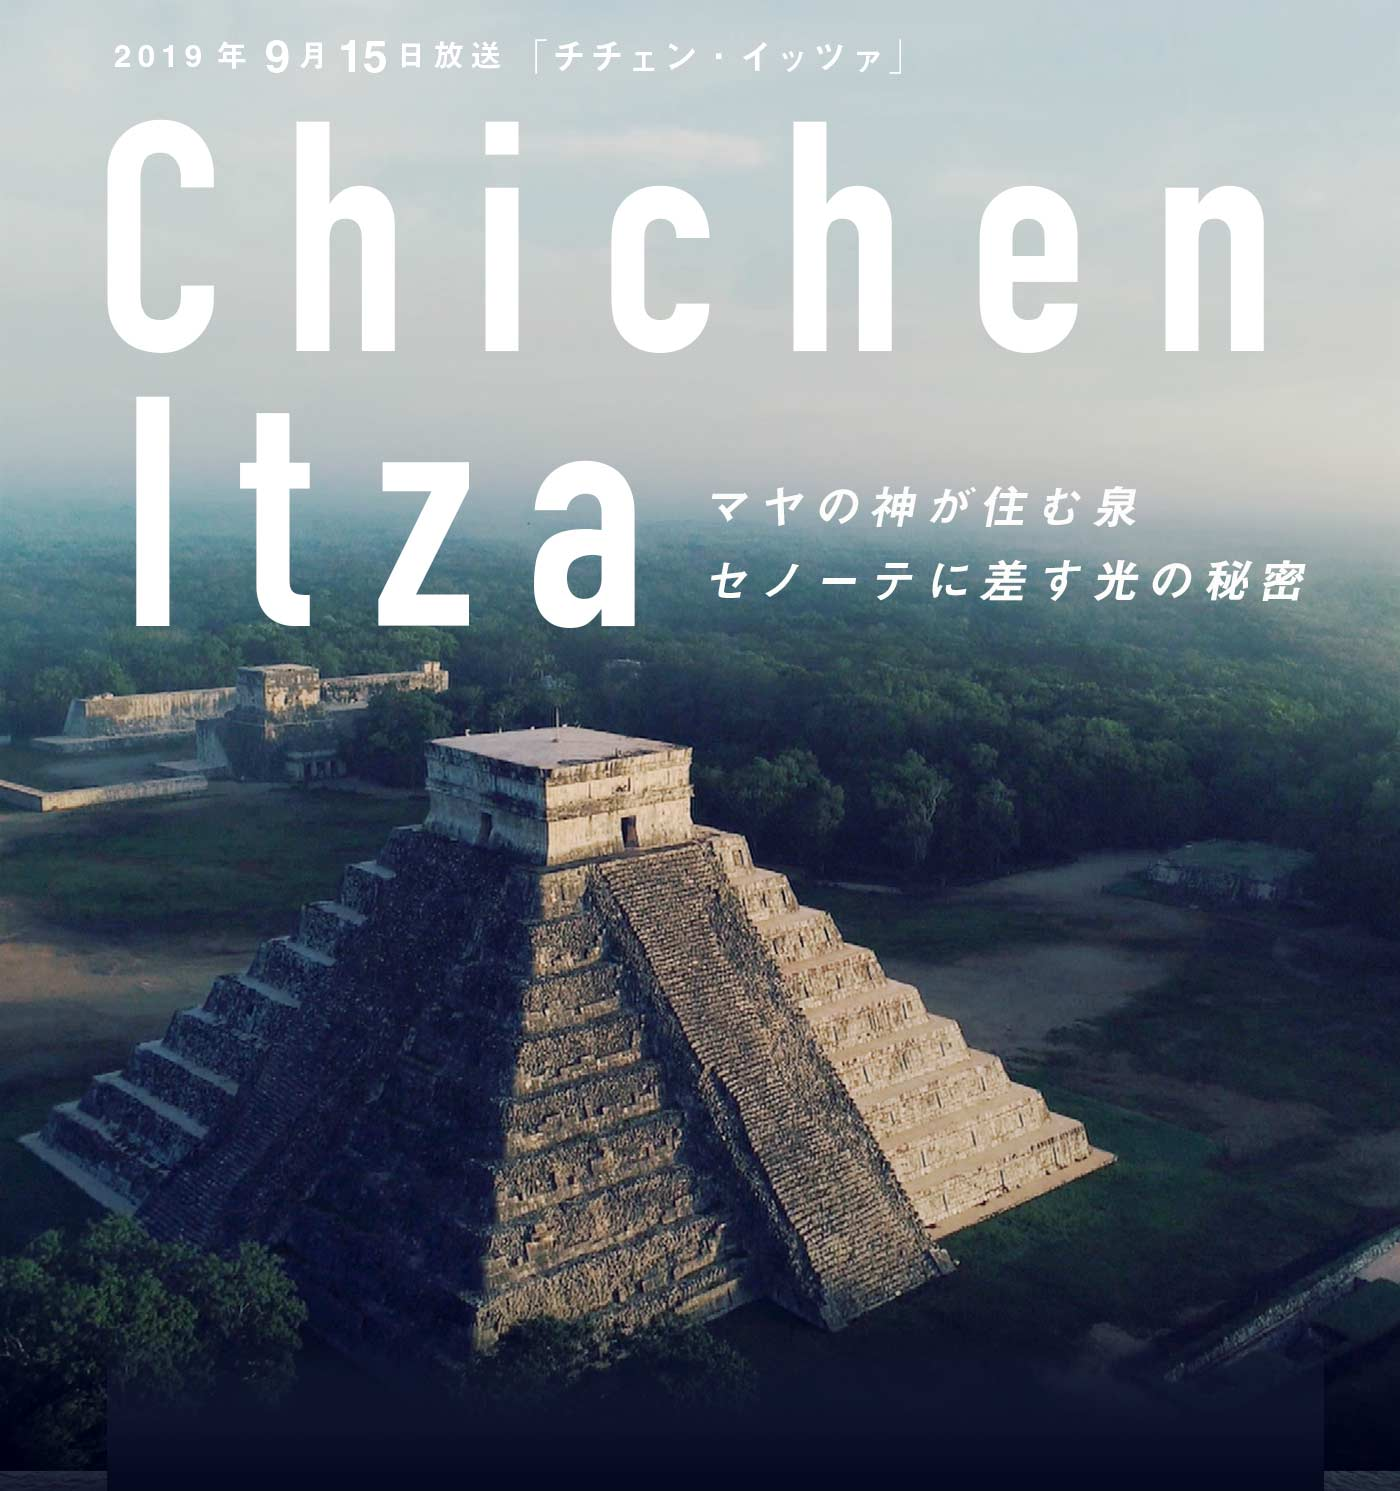
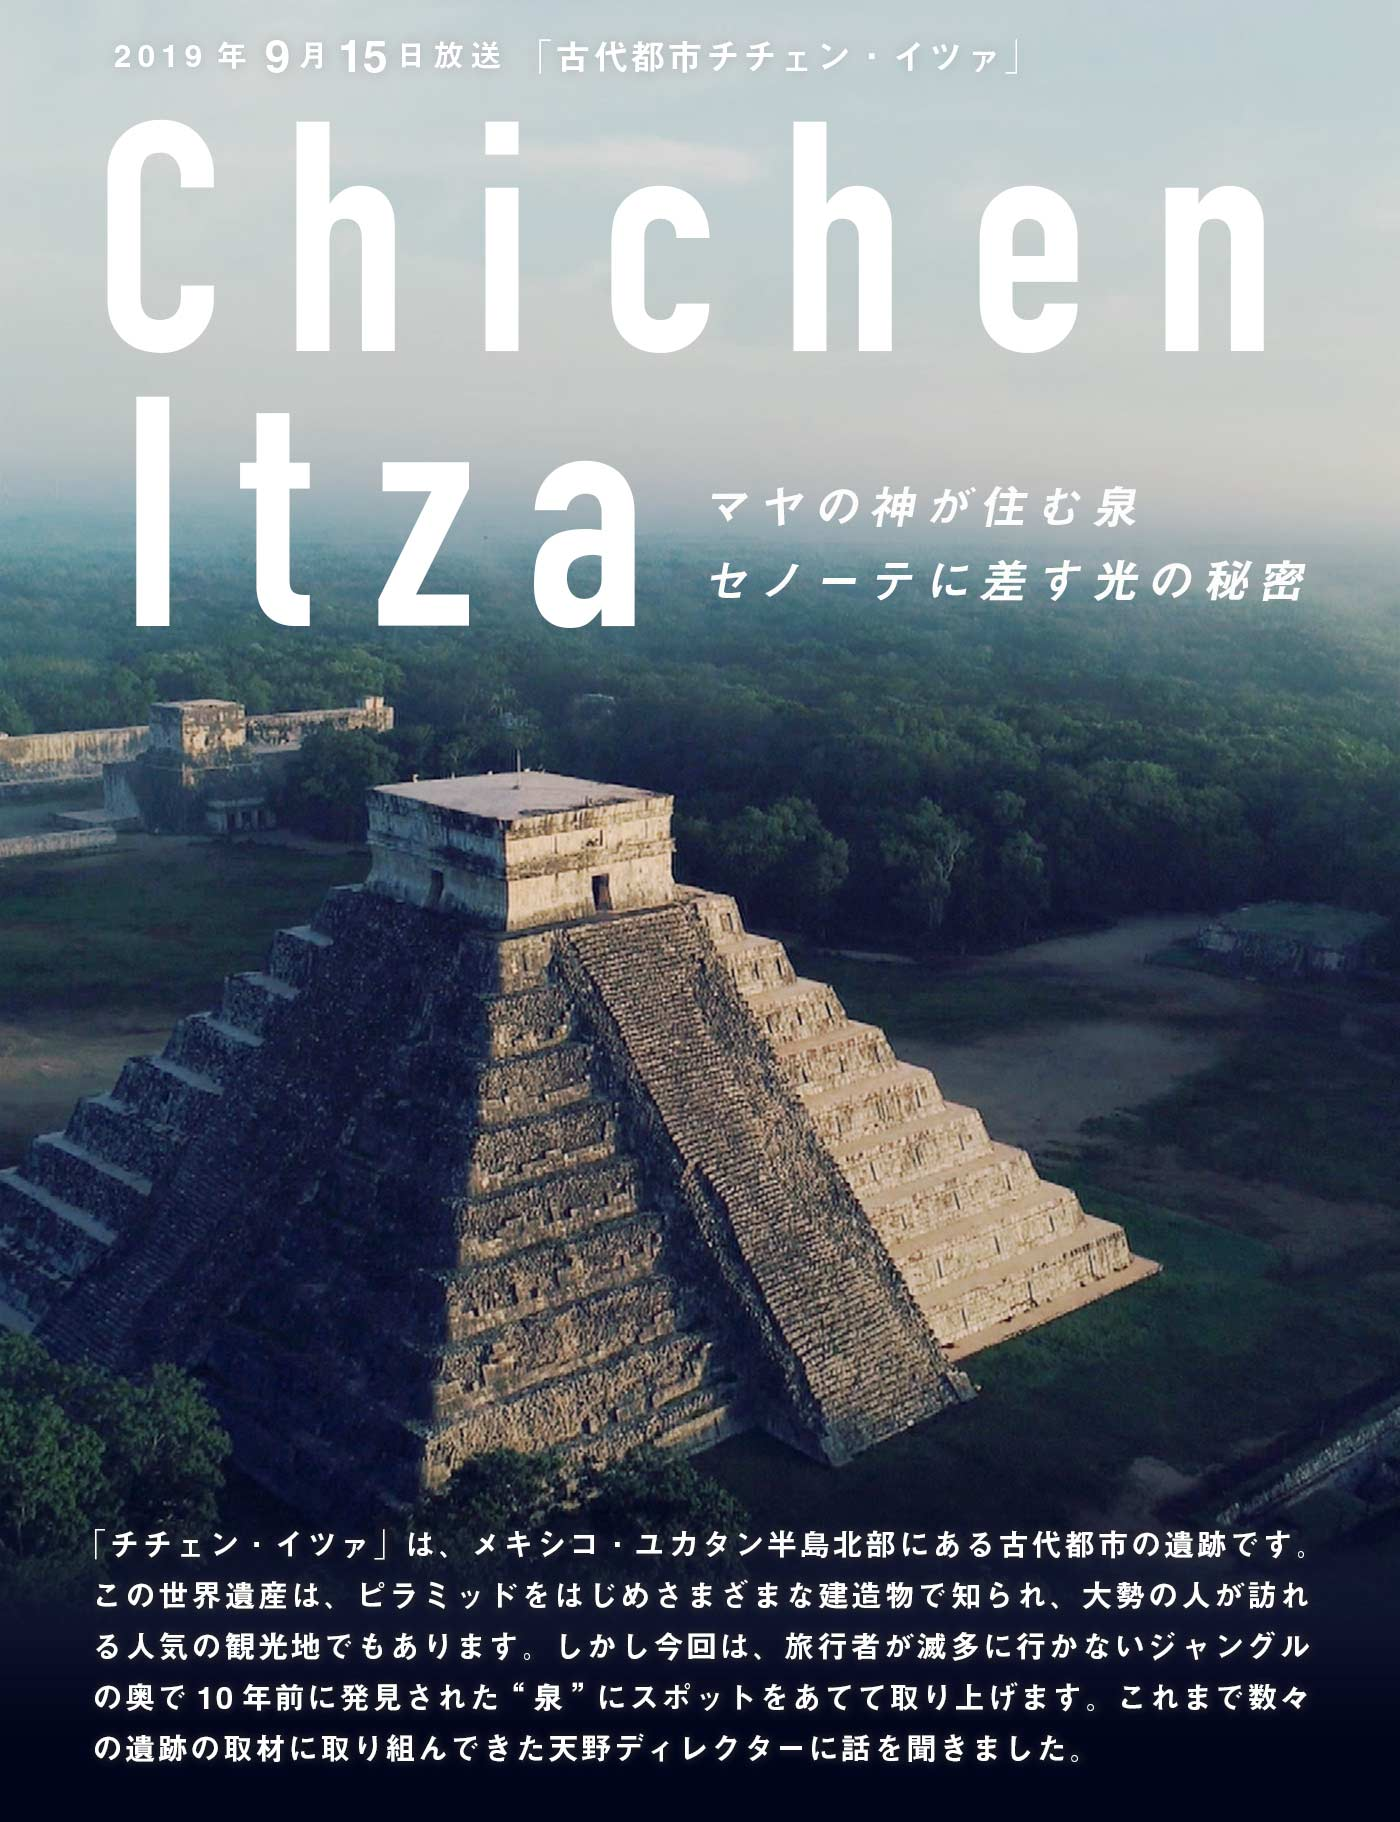
[update1909] done

diff --git a/feature/2019/201909_01.html b/feature/2019/201909_01.html
@@ -5,7 +5,7 @@
 <meta http-equiv="X-UA-Compatible" content="IE=Edge">
 <meta name="viewport" content="width=device-width,initial-scale=1.0">
 <meta name="format-detection" content="telephone=no">
-<title>特集『チチェン・イッツァ』｜TBSテレビ：世界遺産</title>
+<title>特集『古代都市チチェン・イツァ』｜TBSテレビ：世界遺産</title>
 <meta name="description" content="毎週日曜日午後6時から放送中のTBSテレビ「世界遺産」公式サイト。特集ページです。">
 <!--#include virtual="../../include/meta.txt"-->
 <link rel="stylesheet" href="../../css/common.css">
@@ -32,10 +32,10 @@
 <!-- ▼ Contents Area -->
 <div id="featureWrapper">
 	<div class="mainCoverArea1909">
-		<h2 class="featureAlt">2019年9月15日「チチェン・イッツァ」</h2>
+		<h2 class="featureAlt">2019年9月15日「古代都市チチェン・イツァ」</h2>
 	    <img src="../../img/feature/2019/1909/headerimage2_dammy.gif" onContextmenu="return false" alt="" class="feature_dammy" />
 	    <h3 class="featureAlt">マヤの神が住む泉 セノーテに差す光の秘密</h3>
-	    <p class="alt">「チチェン・イッツァ」は、メキシコ・ユカタン半島北部にある古代都市の遺跡です。この世界遺産は、ピラミッドをはじめさまざまな建造物で知られ、大勢の人が訪れる人気の観光地でもあります。しかし今回は、旅行者が滅多に行かないジャングルの奥で10年前に発見された“泉”にスポットをあてて取り上げます。これまで数々の遺跡の取材に取り組んできた天野ディレクターに話を聞きました。</p>
+	    <p class="alt">「チチェン・イツァ」は、メキシコ・ユカタン半島北部にある古代都市の遺跡です。この世界遺産は、ピラミッドをはじめさまざまな建造物で知られ、大勢の人が訪れる人気の観光地でもあります。しかし今回は、旅行者が滅多に行かないジャングルの奥で10年前に発見された“泉”にスポットをあてて取り上げます。これまで数々の遺跡の取材に取り組んできた天野ディレクターに話を聞きました。</p>
 	</div><!-- mainCoverArea1909 -->
 
 	<div class="menuArea1909">
@@ -46,13 +46,13 @@
 
 	<div class="lazy" id="featureCover190901" data-img="../../img/feature/2019/1909/chichen1_cover.jpg">
     <h4 class="alt">カメラが捉えた 光が降り注ぐ奇跡の瞬間</h4>
-    <p class="alt">マヤの人々の生活を支えた水源「セノーテ」。チチェン・イッツァにあるセノーテの中でも、今回取り上げるのは、10年前に発見された「オルトゥン・セノーテ」です。ほかのセノーテと何が違い、なぜ注目されているのかをご紹介していきます。</p>
+    <p class="alt">マヤの人々の生活を支えた水源「セノーテ」。チチェン・イツァにあるセノーテの中でも、今回取り上げるのは、10年前に発見された「オルトゥン・セノーテ」です。ほかのセノーテと何が違い、なぜ注目されているのかをご紹介していきます。</p>
     <img src="../../img/feature/cover_dammy.gif" onContextmenu="return false" alt="" class="feature_dammy" />
     </div><!-- featureCoverArea1505 -->
 
     <div class="featureInterviewArea int1909">
-        <p class="featureAsk">──今回の「チチェン・イッツァ」は、孤島の世界遺産ということですが、どこにある島なのでしょうか？</p>
-        <p class="featureAns">天野ディレクター（以下、天野）：はい、チチェン・イッツァは、ユカタン半島北部のジャングルにある遺跡です。ここは、古代マヤ文明の後期の時代に栄え、およそ1000年前の最盛期には40000もの人々が暮らしていました。それだけの大都市らしく、さまざまな遺跡が残っています。最も有名なのは町の中心にある「ククルカンのピラミッド」ですが、今回の番組で中心になるのは「セノーテ」と呼ばれる泉です。</p>
+        <p class="featureAsk">──今回の「チチェン・イツァ」は、メキシコを代表する世界遺産の１つで、番組でも何度か取り上げられてきたものですね。</p>
+        <p class="featureAns">天野ディレクター（以下、天野）：はい、チチェン・イツァは、ユカタン半島北部のジャングルにある遺跡です。ここは、古代マヤ文明の後期の時代に栄え、およそ1000年前の最盛期には40000もの人々が暮らしていました。それだけの大都市らしく、さまざまな遺跡が残っています。最も有名なのは町の中心にある「ククルカンのピラミッド」ですが、今回の番組で中心になるのは「セノーテ」と呼ばれる泉です。</p>
     </div><!-- featureInterviewArea -->
 
     <div class="featureWideImage lazy squareWideImage" data-img="../../img/feature/2019/1909/chichen1_01.jpg">
@@ -61,7 +61,7 @@
     </div><!-- featureWideImage -->
 
     <div class="featureSquareWrapper">
-        <p class="squareCaption right">ピラミッドで有名な古代マヤ文明の遺跡「チチェン・イッツァ」は、メキシコ・ユカタン半島北部のジャングルにあります。</p>
+        <p class="squareCaption right">ピラミッドで有名な古代マヤ文明の遺跡「チチェン・イツァ」は、メキシコ・ユカタン半島北部のジャングルにあります。</p>
         <div class="featureSquareArea squareLeft">
             <div class="lazy squareImage" data-img="../../img/feature/2019/1909/chichen1_sq1.jpg">
             </div><!-- squareImage -->
@@ -72,7 +72,7 @@
 
      <div class="featureInterviewArea int1909">
         <p class="featureAsk">──セノーテとはどういった泉なのでしょうか？</p>
-        <p class="featureAns">天野：セノーテとは、ユカタン半島の石灰岩の土地が雨水によって侵食されてできた洞窟に水がたまってできた天然の井戸のことで、マヤ人にとって貴重な水源だったのです。チチェン・イッツァの周囲にも、重要なセノーテがいくつかあるのですが、今回は「オルトゥン・セノーテ」と呼ばれるものを中心に取材しています。このセノーテは、ピラミッドから西へ2.5キロほど移動したところにあり、2009年に水中考古学者のギジェルモ博士が発見しました。一般的なセノーテは、陥没によって地上に丸い穴のままなのですが、ところがこのオルトゥン・セノーテの口は、石灰岩が削られるなど、人の手が入っていて長方形になっているのが特徴です。</p>
+        <p class="featureAns">天野：セノーテとは、ユカタン半島の石灰岩の土地が雨水によって侵食されてできた洞窟に水がたまってできた天然の井戸のことで、マヤ人にとって貴重な水源だったのです。チチェン・イツァの周囲にも、重要なセノーテがいくつかあるのですが、今回は「オルトゥン・セノーテ」と呼ばれるものを中心に取材しています。このセノーテは、ピラミッドから西へ2.5キロほど移動したところにあり、2009年に水中考古学者のギジェルモ博士が発見しました。一般的なセノーテは、陥没によって地上に丸い穴のままなのですが、ところがこのオルトゥン・セノーテの口は、石灰岩が削られるなど、人の手が入っていて長方形になっているのが特徴です。</p>
     </div><!-- featureInterviewArea -->
 
 
@@ -93,7 +93,7 @@
 
     <div class="featureInterviewArea int1909">
         <p class="featureAsk">──なぜ、そのように手が加えられたのでしょうか？</p>
-        <p class="featureAns">天野：このセノーテ自体が天体観測の装置として利用されたと考えられています。古代マヤ文明は、天文学が非常に発展していました。彼らは、星や太陽の動きを詳細に観測して、暦を読んでいたようです。そこで重要だったのは、太陽が真上を通過する日付でした。チチェン・イッツァの地域では5月23日と7月19日の２日で、オルトゥン・セノーテの入り口はその日に洞窟内にまっすぐ光が差し込むように作られているのです。取材では、その7月19日、実際にオルトゥン・セノーテの中で撮影をしました。</p>
+        <p class="featureAns">天野：このセノーテ自体が天体観測の装置として利用されたと考えられています。古代マヤ文明は、天文学が非常に発展していました。彼らは、星や太陽の動きを詳細に観測して、暦を読んでいたようです。そこで重要だったのは、太陽が真上を通過する日付でした。チチェン・イツァの地域では5月23日と7月19日の２日で、オルトゥン・セノーテの入り口はその日に洞窟内にまっすぐ光が差し込むように作られているのです。取材では、その7月19日、実際にオルトゥン・セノーテの中で撮影をしました。</p>
     </div><!-- featureInterviewArea -->
 
     <div class="featureWideImage lazy squareWideImage" data-img="../../img/feature/2019/1909/chichen1_03.jpg">

diff --git a/feature/2019/201909_02.html b/feature/2019/201909_02.html
@@ -5,7 +5,7 @@
 <meta http-equiv="X-UA-Compatible" content="IE=Edge">
 <meta name="viewport" content="width=device-width,initial-scale=1.0">
 <meta name="format-detection" content="telephone=no">
-<title>特集『チチェン・イッツァ』｜TBSテレビ：世界遺産</title>
+<title>特集『古代都市チチェン・イツァ』｜TBSテレビ：世界遺産</title>
 <meta name="description" content="毎週日曜日午後6時から放送中のTBSテレビ「世界遺産」公式サイト。特集ページです。">
 <!--#include virtual="../../include/meta.txt"-->
 <link rel="stylesheet" href="../../css/common.css">
@@ -32,7 +32,7 @@
 <!-- ▼ Contents Area -->
 <div id="featureWrapper">
 	<div class="headerImage1909">
-		<h2 class="featureAlt">2019年9月15日「チチェン・イッツァ」</h2>
+		<h2 class="featureAlt">2019年9月15日「古代都市チチェン・イツァ」</h2>
 	    <img src="../../img/feature/2019/1909/headerimage_dammy.gif" onContextmenu="return false" alt="" class="feature_dammy" />
 	    <h3 class="featureAlt">大西洋の孤島 断崖の遺跡</h3>
 	</div><!-- headerImage1909 -->
@@ -80,7 +80,7 @@
         <noscript>Javascript を有効にしてください</noscript>
         <img src="../../img/feature/fullsize_dammy.gif" onContextmenu="return false" alt="" class="feature_dammy" />
     </div><!-- featureWideImage -->
-    <p class="wideCaption">チチェン・イッツァにはオルトゥン・セノーテ以外に「聖なるセノーテ」と呼ばれるものがあります。ここも生活用水の水源だけでなく、さまざまな儀式が行われていたようです。</p>    
+    <p class="wideCaption">チチェン・イツァにはオルトゥン・セノーテ以外に「聖なるセノーテ」と呼ばれるものがあります。ここも生活用水の水源だけでなく、さまざまな儀式が行われていたようです。</p>    
 
  
     <div class="featureInterviewArea int1909">
@@ -108,7 +108,7 @@
 
     <div class="featureInterviewArea int1909">
         <p class="featureAsk">──謎が多いという印象のマヤ文明ですが、生々しいほどに詳しいことがわかってきているのですね。</p>
-        <p class="featureAns">天野：近年、新しい発見もありマヤのこれまで謎だった部分が少しずつわかってきました。現代の感覚では残酷にも思える生贄ですが、マヤの人々にとっては非常に重要な儀式でした。彼らにとって干ばつのときに恵みの雨を降らせるために必要と考えていたはずです。今回の取材では、チチェン・イッツァのピラミッドなどに見られる、さまざまな生贄の儀式を示す遺跡もご紹介しています。</p>
+        <p class="featureAns">天野：近年、新しい発見もありマヤのこれまで謎だった部分が少しずつわかってきました。現代の感覚では残酷にも思える生贄ですが、マヤの人々にとっては非常に重要な儀式でした。彼らにとって干ばつのときに恵みの雨を降らせるために必要と考えていたはずです。今回の取材では、チチェン・イツァのピラミッドなどに見られる、さまざまな生贄の儀式を示す遺跡もご紹介しています。</p>
     </div><!-- featureInterviewArea -->
 
 
@@ -139,7 +139,7 @@
     </div><!-- featureWideImage -->
 
      <div class="featureSquareWrapper">
-        <p class="squareCaption left">放送では、高度な文明と独特な世界観を持つマヤの魅力を感じられる、チチェン・イッツァのさまざまな映像をお届けします。</p>
+        <p class="squareCaption left">放送では、高度な文明と独特な世界観を持つマヤの魅力を感じられる、チチェン・イツァのさまざまな映像をお届けします。</p>
         <div class="featureSquareArea squareRight">
             <div class="lazy squareImage" data-img="../../img/feature/2019/1909/chichen2_sq5.jpg">
             </div><!-- squareImage -->
